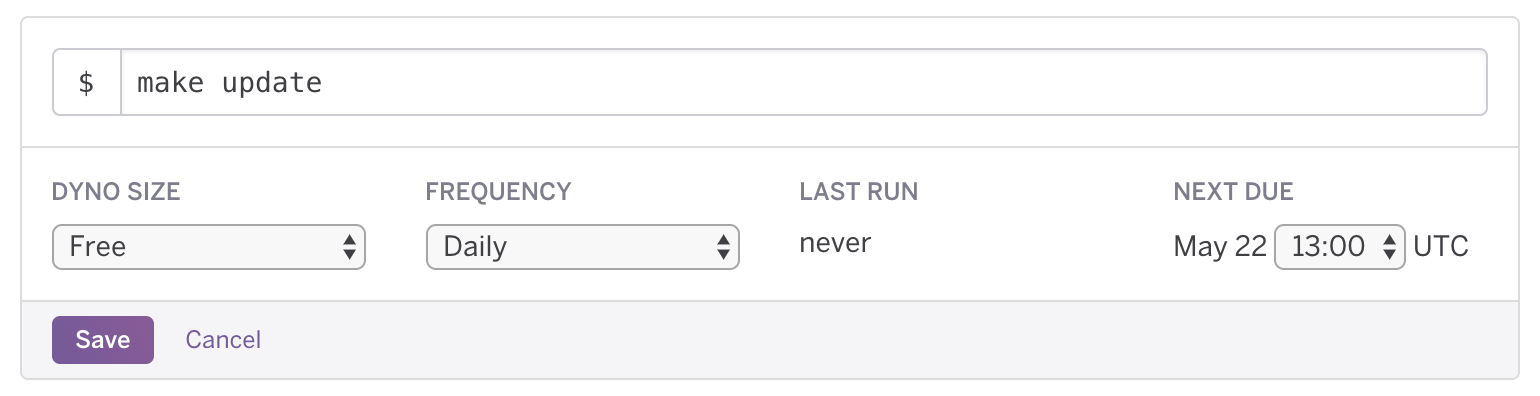
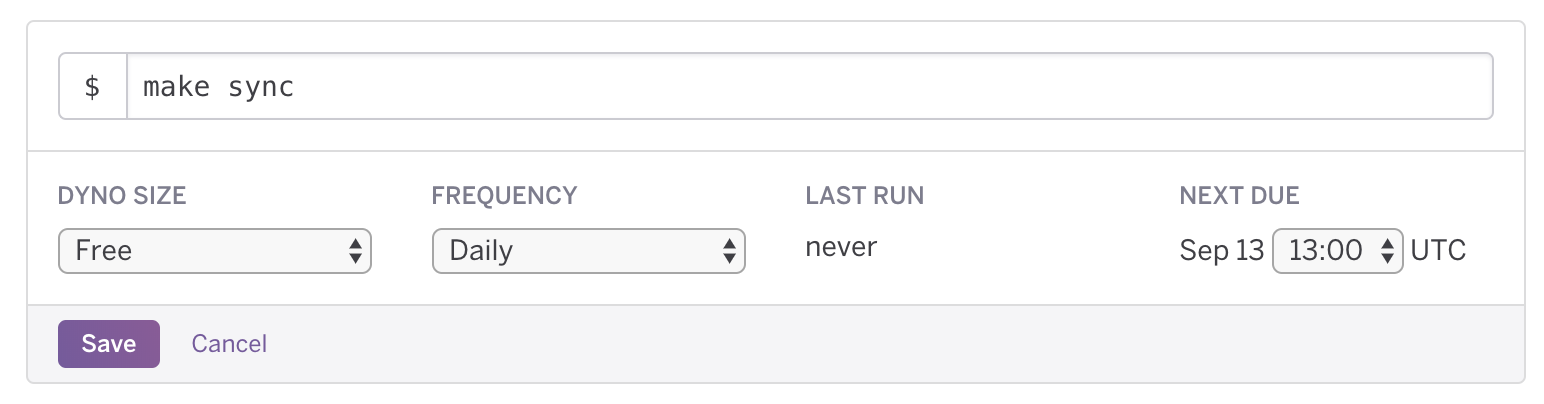
Updated the readme

diff --git a/README.md b/README.md
@@ -1,30 +1,29 @@
 # KNOTS Heroku Recipe
 
-Executes a KNOTS pipeline in a Heroku environment.
+Executes a [KNOTS](https://github.com/singer-io/knots) job on a schedule. It will be executed in [Heroku](https://www.heroku.com/).
 
 ## Getting Started
 
-1. Create a [KNOTS](https://github.com/singer-io/knots) pipeline.
-2. Click this button and drop zip in the heroku folder.
-3. You will need your own [Heroku](https://www.heroku.com) account. The account will need to be
-[verified](https://devcenter.heroku.com/articles/account-verification), meaning that you'll need to put in your credit
-card info, although it's highly unlikely that you'll go past the bounds of the free tier.
-4. Deploy
-5. Once deployment is done, click on 'Manage App' to go to the app's 'Overview' page
-6. Under 'Installed add-ons', click on 'Heroku Scheduler' (Scrap that; instead, add the addon)
-7. Add a new job. The command to use is `make update`.
-    * Note that this will fetch all of the data from your Redshift database every time. A better process would be to
-    fetch only the data that has been updated since last run. Take a look at the [Incremental Updates](#incremental-updates)
-    for info on setting that up.
+1. Click [here](https://github.com/datadotworld/knots-heroku-recipe/archive/master.zip) to download this repository. Please extract the contents of the ZIP file. Take note of the `knots` folder.
+2. Create a new [KNOTS](https://github.com/singer-io/knots) job
+3. From the KNOTS home screen, find the job that you wish to automate and click on the `Export` button. You will receive a ZIP file.
+![Export](assets/export.png)
+4. Drop that ZIP file into the `knots` folder mentioned in Step 1
+5. You will need your own [Heroku](https://www.heroku.com) account. The account will need to be
+[verified](https://devcenter.heroku.com/articles/account-verification), meaning that you'll need to put in your credit card info, although it's highly unlikely that you'll go past the bounds of the free tier.
+6. Click on the `deploy-osx.command` file to begin the deployment
+    1. Mid-way through, you will be asked for your Heroku credentials
+7. Once deployment is done, you will be presented with the App URL. It will be something like `https://dashboard.heroku.com/apps/gentle-tor-24455`. Please open that URL in your browser to go to the app's 'Overview' page.
+8. Under 'Installed add-ons', click on 'Heroku Scheduler'
+9. Add a new job. The command to use is `make sync`. Please note that times are in UTC.
 
 As an example, the following job is scheduled to run daily at 8 AM CDT:
 ![Daily Job](assets/scheduler-daily-job.png)
-8. If you wish to get the data immediately, trigger a manual run as described in [Manual Run](#manual-run)
 
 ### Manual Run
 
-To trigger a manual update, click on 'More' on the upper right-hand corner, and then 'Run console' (screenshot below).
-Type `make update` on the screen that pops up and press 'Run'.
+If you ever have a need to update the data immediately, you can trigger a manual update. Click on 'More' on the upper right-hand corner, and then 'Run console' (screenshot below).
+Type `make sync` on the screen that pops up and press 'Run'.
 
 ![Run Console](assets/run-console.png)
 
